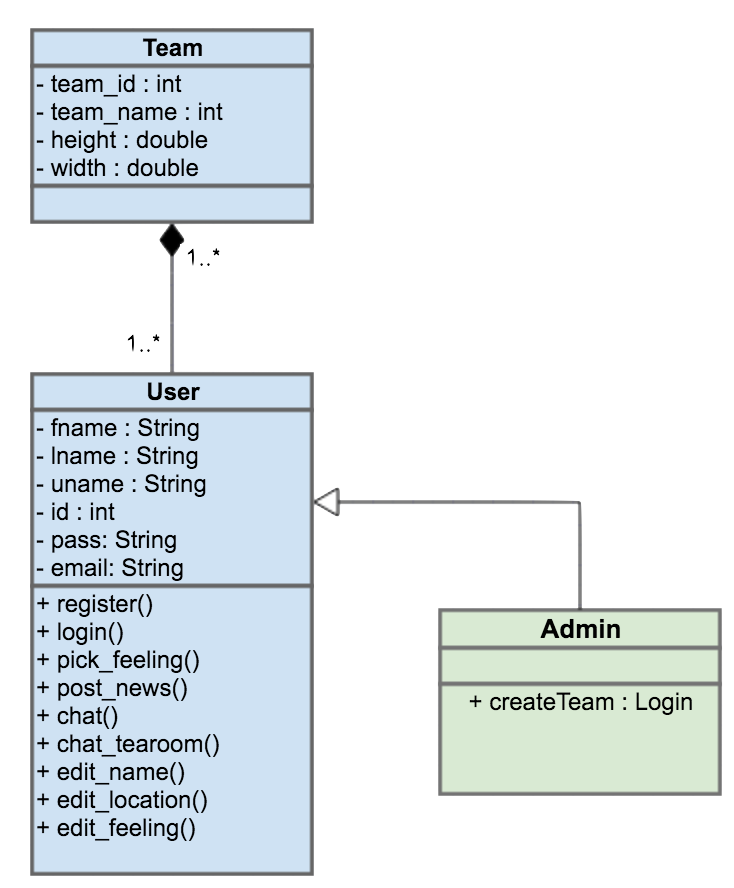
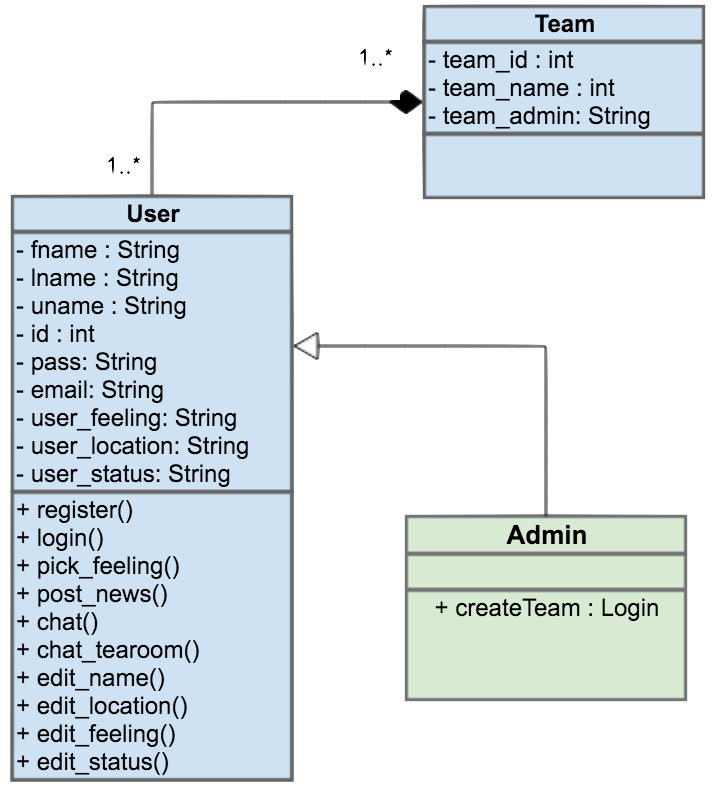
Update with pictures

diff --git a/architecture.html b/architecture.html
@@ -32,49 +32,44 @@
 <body>
 	<!--  About Section  -->
 	<section class="about" id="about">
-		<h1 class="text-center animated wow fadeInRight">Application architecture</h1>
-		<p class="container text-center features_list animated wow fadeInRight">This is guide for users of the application TeaMe which we have developed for ATOS. The instructions provided below are for using the application.</p>
-		<br>
-		
-		<div class="container newspaper animated wow fadeInLeft features_list">
-		<h2 class="text-center animated wow fadeInLeft">Register</h2>
-		<p>By filling all the required fields with your details, click the register button at the end of the page, register with the application.</p>
-
-		<h2 class="text-center animated wow fadeInLeft">Log in</h2>
-		<p>If you already have an account by registering earlier, you are able to log in. Fill in the 2 fields given with your username and password and click login button to log in the system.</p>
-
-		<h2 class="text-center animated wow fadeInLeft">Choose a team</h2>
-		<p>You will see a set of teams you are already in, if you are not a new user. You can choose one of them to continue with. Otherwise, you can create a new team by clicking the plus button in the up right corner of the page.</p>
-
-		<h2 class="text-center animated wow fadeInLeft">Choose a feeling</h2>
-		<p>You should choose one of the moods given in the next page each time you logged in. By selecting one of the emoji pictures you can provide you mood at the moment you log in.</p>
-
-		<h2 class="text-center animated wow fadeInLeft">User Page</h2>
-		<p>After you choose a team, and select your mood, you are directed to user page where you are able to see you personal details, location, status and mood. From this page, you can go to edit your profile, choose another team, chat with everyone in the “Tea Room”, message different people, go to news feed, view all the other users or log out whenever you want. </p>
-
-		<h2 class="text-center animated wow fadeInLeft">Edit Profile</h2>
-		<p>You can edit your details such as you location, status and feeling. By simple clicking ‘Edit Profile’, you go the page with different fields carrying your details, choose whichever you want, update and then save by clicking the button at the end of the page. Or go back to the previous page by clicking the back button on the top left corner of the current page in case you change your mind to not update details.</p>
-
-		<h2 class="text-center animated wow fadeInLeft">Create a new team</h2>
-		<p>Go to the ‘Choose a team’ page, click the ‘+’ icon in the up right corner of the page. Now you are directed to a page with fields provided for a team and its members. Type the name you want to call the new team and then click create. Afterwards, type the names of the users in the fields given for the members of the team and click add each time you add a new user. Remember that the users you add have to be already registered with TeaMe.</p>
-
-		<h2 class="text-center animated wow fadeInLeft">Choose a team</h2>
-		<p>You will see a set of teams you are already in, if you are not a new user. You can choose one of them to continue with. Otherwise, you can create a new team by clicking the plus button in the up right corner of the page.</p>
-
-		<h2 class="text-center animated wow fadeInLeft">Chat with others in the TeaRoom</h2>
-		<p>The aim of this TeaRoom is to make the users more sociable. So, simply by going to the TeaRoom page you can have a chat with all the users of the application and socialize with them. Click the TeaRoom icon on the current page, go to the TeaRoom, type whatever you want in the message box provided below, and then click send to share your thoughts with everyone in the TeaRoom.</p>
-
-		<h2 class="text-center animated wow fadeInLeft">Post in the news feed</h2>
-		<p>Click News Feed icon, and go to the news feed page of the team you are currently in. Now use the post box below of the page to write your post and click post to make your messages, news be seen by other members of the group.</p>
-
-		<h2 class="text-center animated wow fadeInLeft">View all users</h2>
-		<p>Click the ‘View all users’ button in the top right corner in the TeaRoom, and now you are provided with a list of all the registered users currently in present in the TeaRoom at the same time.</p>
-
-		<h2 class="text-center animated wow fadeInLeft">Messaging</h2>
-		<p>In the messaging page a user is able to pick one member of the team and chat with that person in a closed ‘room’ where no one else will have access.</p>
-		
-		<h2 class="text-center animated wow fadeInLeft">Log Out</h2>
-		<p>You can log out from the application any time you want. Just click Logout icon in on the top right corner of the page, and now you are logged out.</p>
+		<div class="features_list">
+			<h1 class="text-center animated wow fadeInRight">Application architecture</h1>
+			<p class="container text-center animated wow fadeInRight">This is the overall architecture of the application showing a UML Diagram, Website Architecture and a Flow Diagram.</p>
+			<br>
+			<div class="row">
+				<div class="col-md-6 text-center animated wow fadeInLeft">
+					<h2 class="text-center animated wow fadeInLeft">UML Diagram</h2>
+					<p>Our UML Diagram is showing how the team architecture is built within the database. Each team has specific attributes shown in the picture. Then each team can have one or more users, which involves a set of attributes such as name, status etc. and methods the user can do in the app. The user must also be in at least one team, so it's a many to many relationship. The user can also be an Administrator and will have the extra method, which is to create a team.</p>
+				</div>
+				<div class="col-md-6 text-center animated wow fadeInLeft">
+					<p><img src="deliver/ClassD.png" alt="Cinque Terre" width="50%" height="50%"></p>
+				</div>
+			</div>
+			<div class="row">
+					<div class="col-md-6 text-center animated wow fadeInLeft">
+						<h2 class="text-center animated wow fadeInLeft">Website Architecture</h2>
+						<p>The Website Architecture shows a diagram specifying fron-end elements and back-end elements. You can see from the chart diagram that all the interactions that the user does with the app is under the catogery of front-end, and other actions such as getting data and updating data from the database is happening in the back-end. You can easily see the relationship between the front-end and the back-end where many of the front-end actions need the back-end to operate.</p>
+					</div>
+					<div class="col-md-6 text-center animated wow fadeInLeft">
+						<p><img src="deliver/Architechture.png" alt="Cinque Terre" width="100%" height="100%"></p>
+					</div>
+			</div>
+			<div class="row">
+				<div class="col-md-4 text-center animated wow fadeInLeft">
+					<h2 class="text-center animated wow fadeInLeft">Flowchart</h2>
+					<p>The Flowchart shows the flow from the user all the way to the databse in the application. Our users can use both the mobile application as well as displaying the app in a browser since the mobile app is built on web technologies. Therefore it's displayed like this. 
+					<br>
+					If the user is the web application it will be run in a browser, reads all documents and then connects to the server. The server then gets/posts to and from the MySQL database.
+					<br>
+					If the user is using a mobile platform to display the app, it has automatically gone through the process of converting the mobile application with Cordova into the language the platform needs, e.g. iOS needs Objective C files and Android needs Java files. It then connects to the server, like the mobile app, and talks directly to the database.</p>
+				</div>
+				<div class="col-md-8 text-center animated wow fadeInLeft">
+				<br>
+				<br>
+					<p><img src="deliver/Flowchart.png" alt="Cinque Terre" width="100%" height="100%"></p>
+				</div>
+				
+			</div>
 		</div>
 	</section>
 	<!--  End About Section  -->

diff --git a/index.html b/index.html
@@ -158,10 +158,15 @@
 						<blockquote>
 						<div class="row">
 							<span class="author text-uppercase">Login page</span>
-							<div class="col-sm-6 col-md-6 animated wow fadeInDown" data-wow-delay="0s">
+							<div class="col-md-2 animated wow fadeInDown" data-wow-delay="0s">
+								<div class="iphone">
+									<img class="small-iphone" src="img/login1.png" alt="" titl="">
+								</div>
+							</div>
+							<div class="col-md-8 animated wow fadeInDown" data-wow-delay="0s">
 							<p>The first page that occurs when you click the application logo will be the ‘Log in’ page. On the screen, there will be spaces for username and password separately, and log-in button. After the user types his/her username and password, and clicks the log-in button, he/she will be taken into the 2nd page.</p>
 							</div>
-							<div class="col-sm-6 col-md-6 animated wow fadeInDown" data-wow-delay="0s">
+							<div class="col-md-2 animated wow fadeInDown" data-wow-delay="0s">
 								<div class="iphone">
 									<img class="small-iphone" src="img/iphone.png" alt="" titl="">
 								</div>
@@ -172,32 +177,82 @@
 
 					<li>
 						<blockquote>
+						<div class="row">
 							<span class="author text-uppercase">Team page</span>
+							<div class="col-md-2 animated wow fadeInDown" data-wow-delay="0s">
+								<div class="iphone">
+									<img class="small-iphone" src="img/team.png" alt="" titl="">
+								</div>
+							</div>
+							<div class="col-md-8 animated wow fadeInDown" data-wow-delay="0s">
 							<p>The second page is the page that shows which ‘Teams you are in’. So, on the screen there will be symbols (squares/circles/triangles) in which a particular team name is written. The user will select the appropriate team he/she wants to communicate or see the news feed related to that team. In addition, on the upper right side of the page there will be a button with “+” sign which is the button for creating a new team.</p>
+							</div>
+							<div class="col-md-2 animated wow fadeInDown" data-wow-delay="0s">
+								<div class="iphone">
+									<img class="small-iphone" src="img/choose_team.png" alt="" titl="">
+								</div>
+							</div>
+						</div>
 						</blockquote>
 					</li>
 					<li>
 						<blockquote>
 							<span class="author text-uppercase">Feelings page</span>
-							<p>The Feelings page lets you choose how you feel in that specific moment. If you feel like your mood has changed during the day you are able to change this in your user profile.</p>
+							<div class="row">
+								<div class="col-md-10 animated wow fadeInDown" data-wow-delay="0s">
+								<p>The Feelings page lets you choose how you feel in that specific moment. If you feel like your mood has changed during the day you are able to change this in your user profile.</p>
+								</div>
+								<div class="col-md-2 animated wow fadeInDown" data-wow-delay="0s">
+									<div class="iphone">
+										<img class="small-iphone" src="img/feeling.png" alt="" titl="">
+									</div>
+								</div>
+							</div>
 						</blockquote>
 					</li>
 					<li>
 						<blockquote>
-							<span class="author text-uppercase">News feed</span>
-							<p>After picking your feelings, the application takes the user to the third page(‘News feed’) where the user can post news within the group it's currently in. The user can also see updates done by other team members.</p>
+							<div class="row">
+								<div class="col-md-2 animated wow fadeInDown" data-wow-delay="0s">
+									<div class="iphone">
+											<img class="small-iphone" src="img/newsfeed.png" alt="" titl="">
+									</div>
+								</div>
+								<div class="col-md-10 animated wow fadeInDown" data-wow-delay="0s">
+									<span class="author text-uppercase">News feed</span>
+									<p>After picking your feelings, the application takes the user to the third page(‘News feed’) where the user can post news within the group it's currently in. The user can also see updates done by other team members.</p>
+								</div>
+							</div>
 						</blockquote>
 					</li>
 					<li>
 						<blockquote>
-							<span class="author text-uppercase">Messaging</span>
-							<p>The Message Page is where the members of the specified team are able to have a conversation, and you can choose either to speak with one or several members.</p>
+							<div class="row">
+								<div class="col-md-10 animated wow fadeInDown" data-wow-delay="0s">
+									<span class="author text-uppercase">Messaging</span>
+									<p>The Message Page is where the members of the specified team are able to have a conversation, and you can choose either to speak with one or several members.</p>
+								</div>
+								<div class="col-md-2 animated wow fadeInDown" data-wow-delay="0s">
+									<div class="iphone">
+										<img class="small-iphone" src="img/messaging.png" alt="" titl="">
+									</div>
+								</div>
+							</div>
 						</blockquote>
 					</li>
 					<li>
 						<blockquote>
-							<span class="author text-uppercase">TeaRoom</span>
-							<p>The TeaRoom page provides a "room" where the team members can talk about their interests and other themes which is not work related. It is supposed to be a 'safe space' where you would want to talk to your teammates about whatever crosses your mind.</p>
+							<div class="row">
+								<div class="col-md-2 animated wow fadeInDown" data-wow-delay="0s">
+										<div class="iphone">
+											<img class="small-iphone" src="img/tearoom.png" alt="" titl="">
+										</div>
+								</div>
+								<div class="col-md-10 animated wow fadeInDown" data-wow-delay="0s">
+									<span class="author text-uppercase">TeaRoom</span>
+									<p>The TeaRoom page provides a "room" where the team members can talk about their interests and other themes which is not work related. It is supposed to be a 'safe space' where you would want to talk to your teammates about whatever crosses your mind.</p>
+								</div>
+							</div>
 						</blockquote>
 					</li>
 				</ul>

diff --git a/productivity.html b/productivity.html
@@ -42,7 +42,7 @@
 				<div class="col-md-6 animated wow fadeInRight">
 					<div class="features_list">
 						<h1 class="text-uppercase">Productivity and performance</h1>
-					<p class="text-lowercase">According to the study took place in Ctrip travel company, the workers who telecommuted for 9 months were much happier and more productive than the ones who worked in the office atmosphere during this time period. “The results we saw at Ctrip blew me away.” says Nicholas Bloom (2014). Before the experiment began, the company was thinking about the gain in saving money on furniture or space. However, it profited a considerable amount in productivity of employees. So, the people who worked from home replied 13.5% more phone calls than the ones in the office. In addition, quit amount was a half of the office quit rate, and as expected the at-home workers were much more satisfied than the office workers. During the experiment, the employees at home worked more hours that the ones in the office. It includes starting to work earlier, having less amount of break, working till the late hours and etc. However, it is not the only reason of their productivity. As the remote workers job was mainly to deal with telephone calls, or contact with their clients, having a quieter place helped them to manage it in a better way. Having a comfortable home environment, no company restrictions to obey, taking short breaks whenever they want, and being away from the commuting stress made them to become more engaged with their job. In fact, unfortunately it is not the same for all people or for all job types. For this company, remote working experience lead to considerable results might be because it was studied on call center department, and it was easier to work remotely. Nevertheless, some cultural, circumstantial or family factors can worsen the performance rather than improve it. For instance, although older individuals, married people or the workers,who have children to take care at home, prefer working remotely, the younger employees mainly prefer office environment because of their social lives. On the other hand, it also depends on the person whether he/she feels more focused on the work at home or at the workplace (Bloom, 2014).
+					<p>According to the study took place in Ctrip travel company, the workers who telecommuted for 9 months were much happier and more productive than the ones who worked in the office atmosphere during this time period. “The results we saw at Ctrip blew me away.” says Nicholas Bloom (2014). Before the experiment began, the company was thinking about the gain in saving money on furniture or space. However, it profited a considerable amount in productivity of employees. So, the people who worked from home replied 13.5% more phone calls than the ones in the office. In addition, quit amount was a half of the office quit rate, and as expected the at-home workers were much more satisfied than the office workers. During the experiment, the employees at home worked more hours that the ones in the office. It includes starting to work earlier, having less amount of break, working till the late hours and etc. However, it is not the only reason of their productivity. As the remote workers job was mainly to deal with telephone calls, or contact with their clients, having a quieter place helped them to manage it in a better way. Having a comfortable home environment, no company restrictions to obey, taking short breaks whenever they want, and being away from the commuting stress made them to become more engaged with their job. In fact, unfortunately it is not the same for all people or for all job types. For this company, remote working experience lead to considerable results might be because it was studied on call center department, and it was easier to work remotely. Nevertheless, some cultural, circumstantial or family factors can worsen the performance rather than improve it. For instance, although older individuals, married people or the workers,who have children to take care at home, prefer working remotely, the younger employees mainly prefer office environment because of their social lives. On the other hand, it also depends on the person whether he/she feels more focused on the work at home or at the workplace (Bloom, 2014).
 
 					The survey done by ConnectSolutions in 2014 shows that the remote working is a good way to increase productivity and motivation of employees. According to the survey, 77 percent of workers supported remote working because of its huge productivity. However, the rest 23 percent were in favour of working in the office circumstances as it helps them to work longer hours. On the other side, additional to the benefits for big companies such as decreasing costs, it is suggested that remote working may be helpful for employees’ healthy lives. As indicated in the survey, 45% remote workers were sleeping better, 35% were doing exercises more and 42% had healthier diets. Also, 53% of participants argued about the stress reduction advantage of remote working. (Sword, 2015) As a result of this survey, we can say that much healthier, less stressed, and more joyful employees means a successful employer, too. So, those workers help their employers by taking the heaviness of the job away much easily, eliminating being absent for the work, and causing higher productivity.
 
